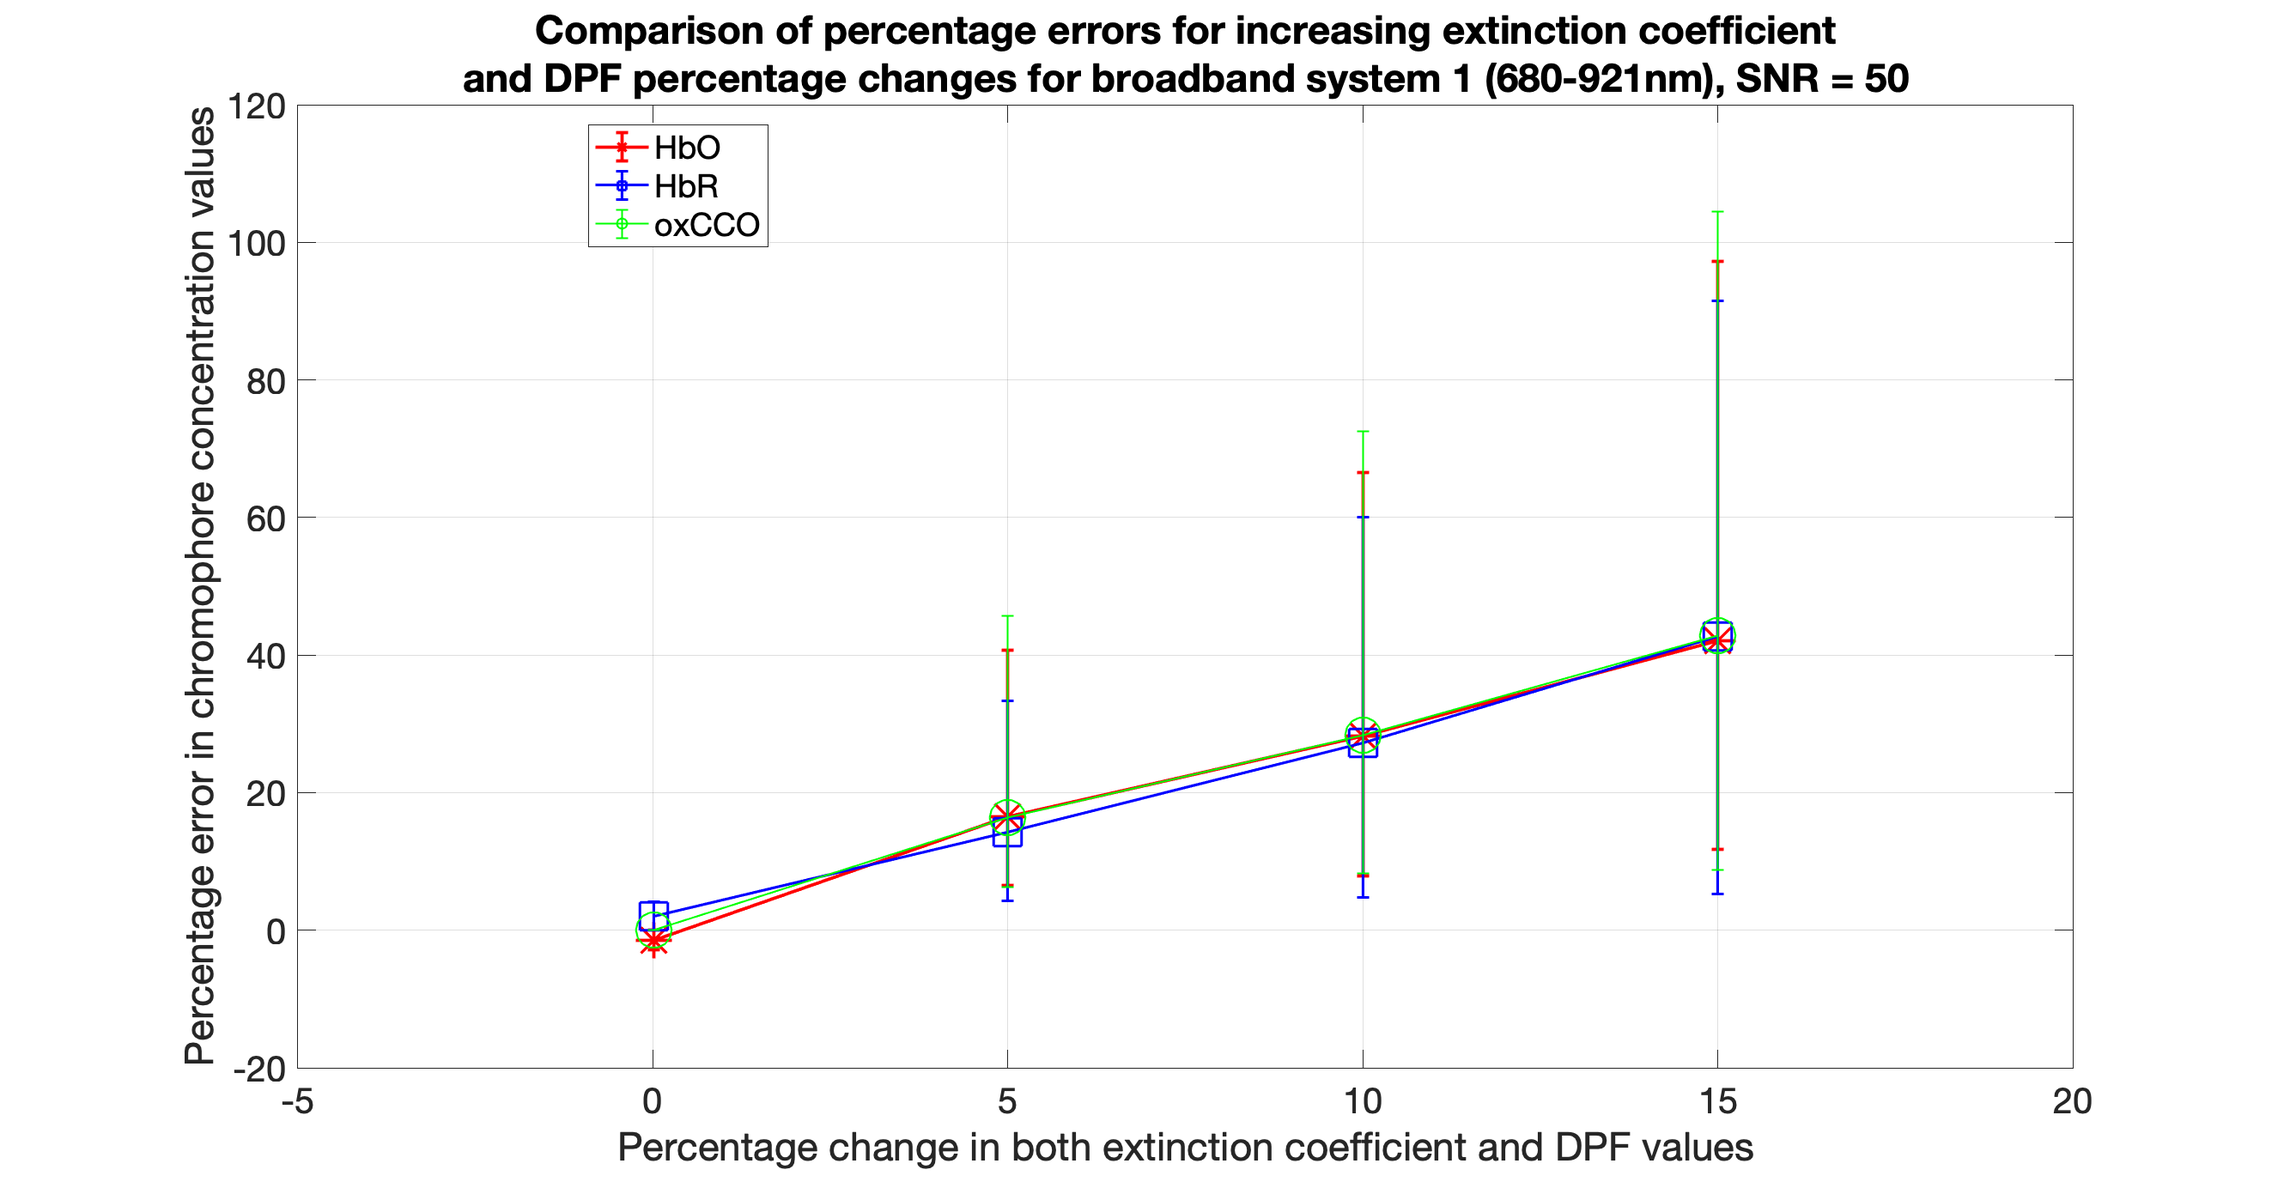
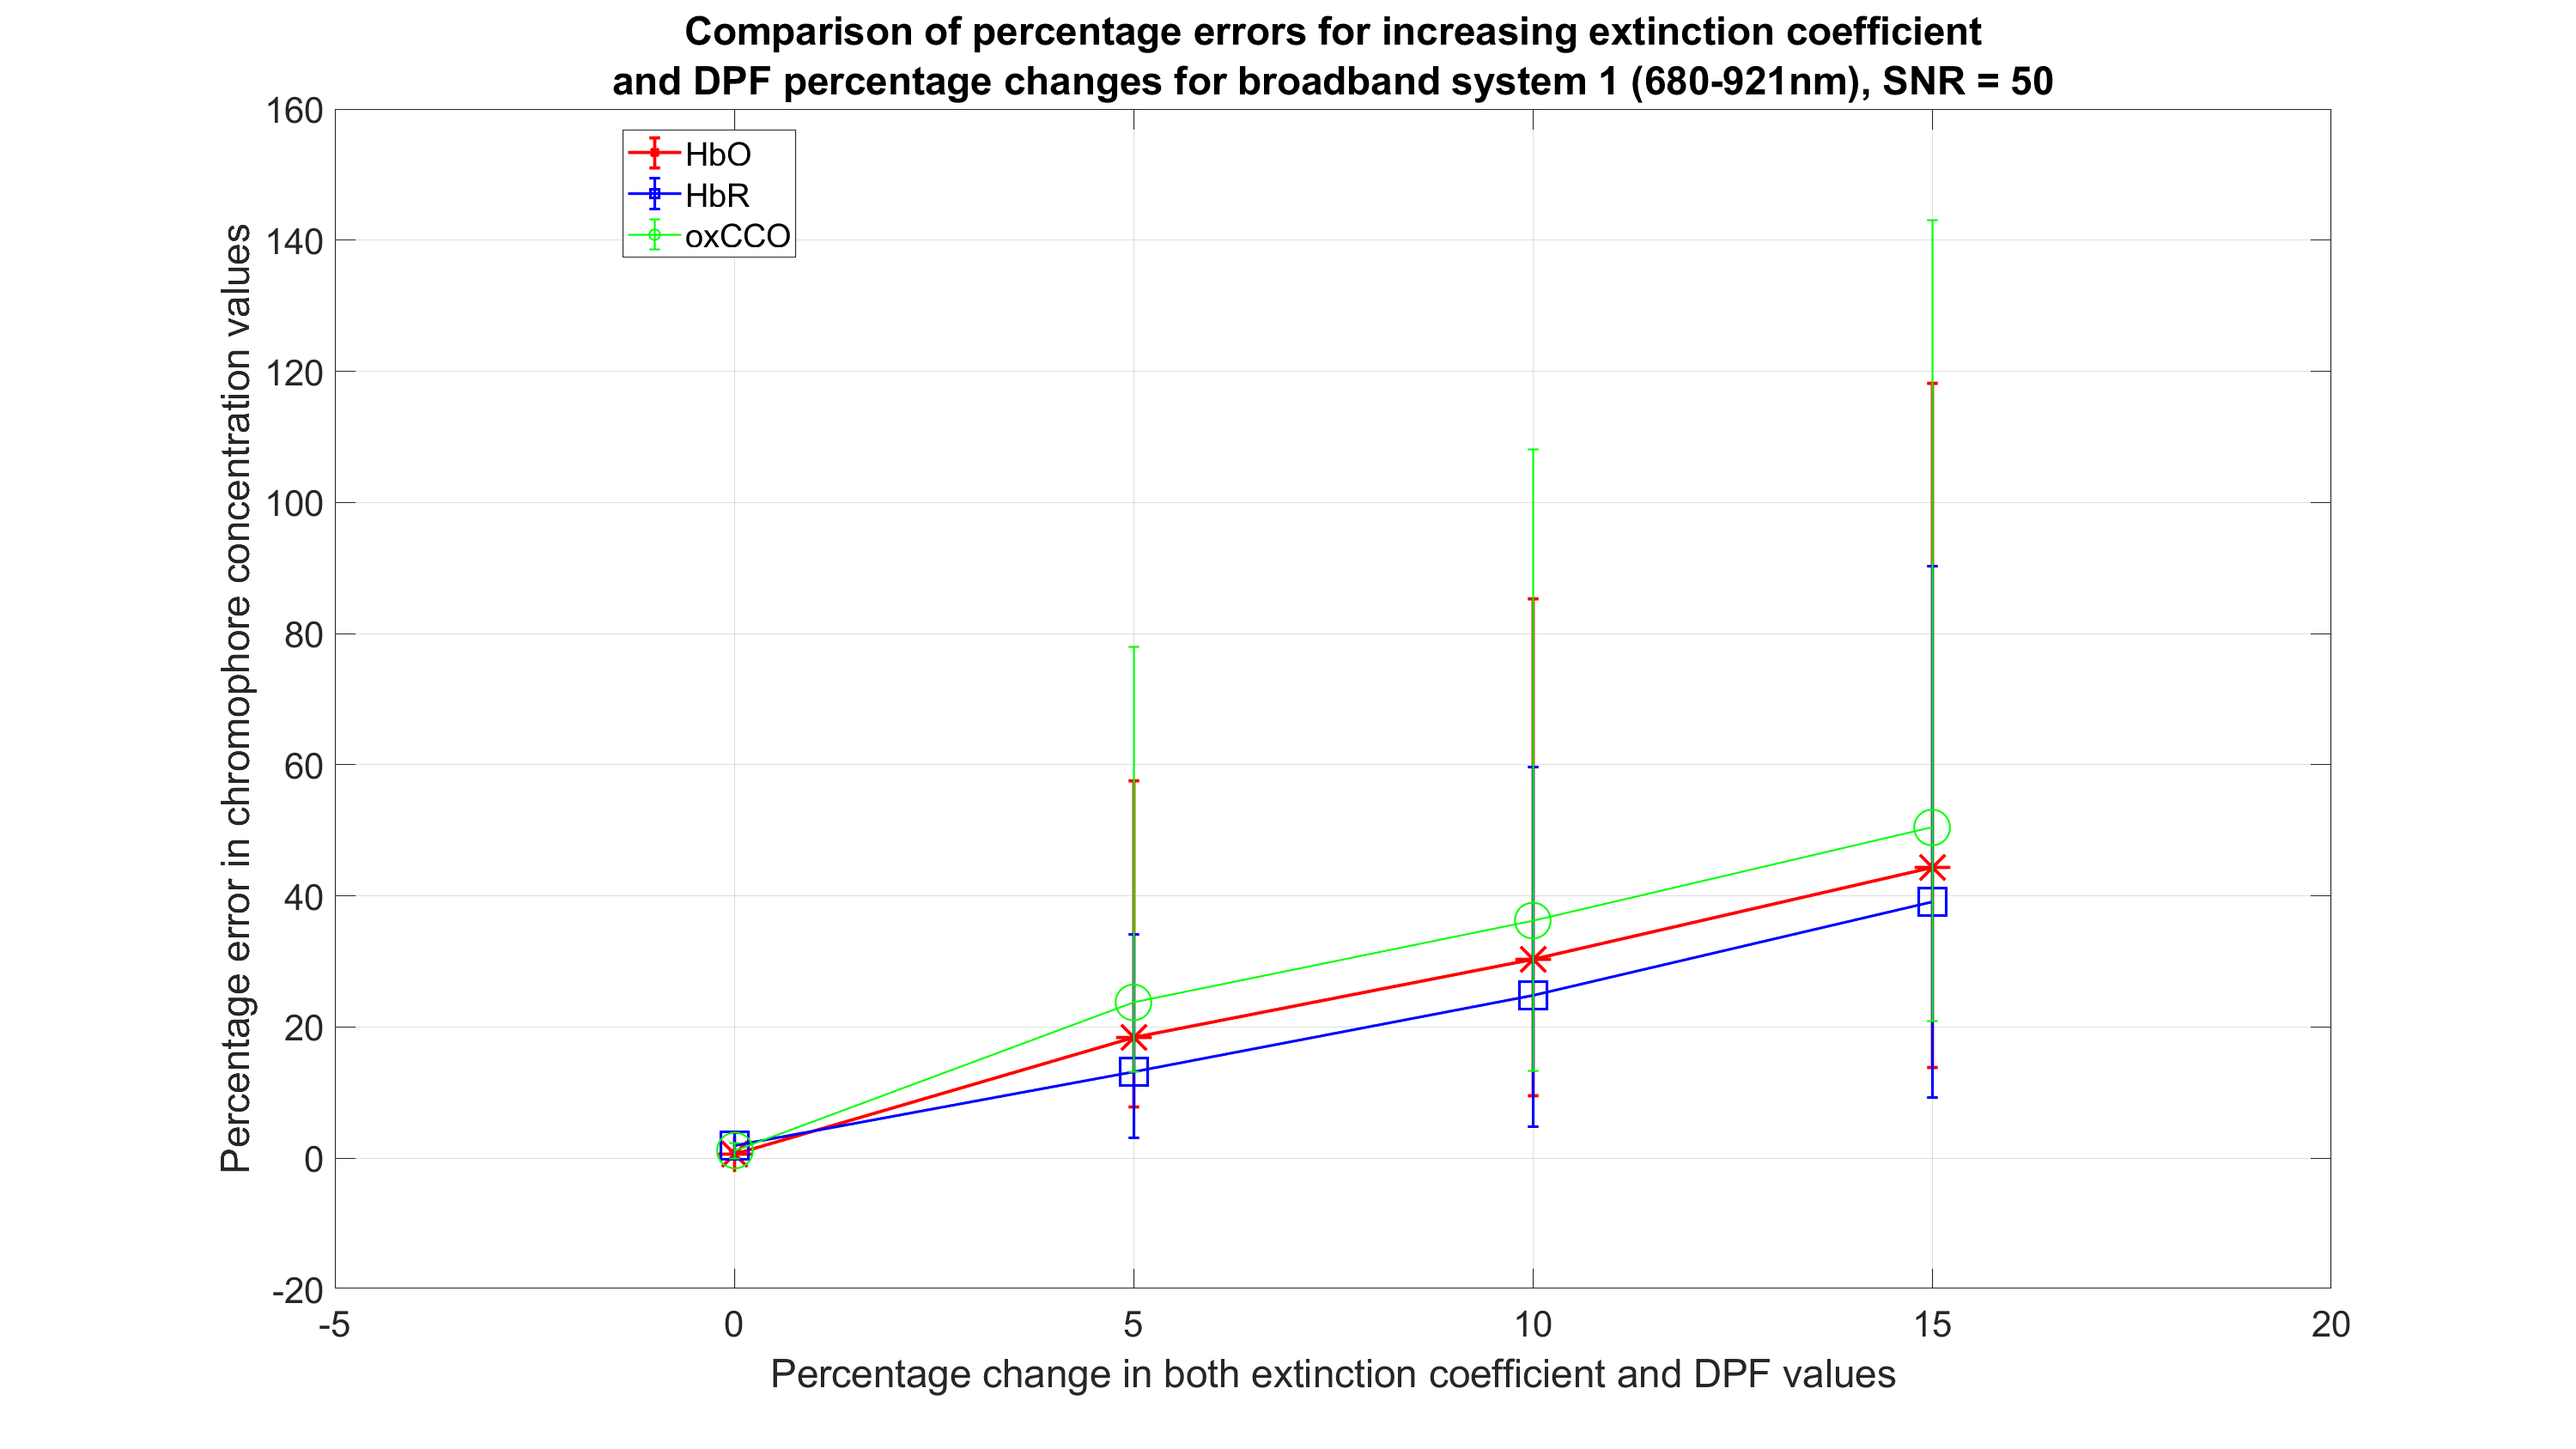
Cleaning up

diff --git a/Code replica/Broadband_investigations.m b/Code replica/Broadband_investigations.m
@@ -8,7 +8,7 @@
 % Enter simulation data
 SD = 30; % Source-detector separation on same surface of slab (mm)
 slab = 50; % Slab thickness (mm)
-for pert_number = 1:20
+for pert_number = 1:100
     %% Code for Broadband System 1
     % x contains all broadband wavelengths
     x = 680:921;
@@ -3205,10 +3205,107 @@ for pert_number = 1:20
 end
 
 %% Editing this
+
+% Average BB1
 for u = 1:4
     for j = 1:3
         for k = 1:pert_number
-            total_pert_error_BB4SNR50(k,j) = perc_accum_errors_DPFE_BB4SNR50_saved{1,k}(u,j);
+            total_pert_error_BBSNR50(k,j) = pert_ave_error_BBSNR50{1,k}(u,j);
+            high_bar_vector_error_BB4SNR50(k,j) = pert_high_bar_error_BB4SNR50{1,k}(u,j);
+            low_bar_vector_error_BB4SNR50(k,j) = pert_low_bar_error_BB4SNR50{1,k}(u,j);
+        end
+        ave_pert_error_BBSNR50(u,j) = mean(total_pert_error_BBSNR50(:,j(total_pert_error_BBSNR50(:,j)<Inf)));
+        high_bar_pert_error_BBSNR50(u,j) = max(high_bar_vector_error_BB4SNR50(:,j));
+        low_bar_pert_error_BBSNR50(u,j) = min(low_bar_vector_error_BB4SNR50(:,j));
+    end
+end
+
+% Graph for BB1
+FigH = figure('Position', get(0, 'Screensize'));
+F = getframe(FigH);
+imwrite(F.cdata, 'Average percentage errors for increasing E and DPF changes for BB1 SNR 50 random conc.png', 'png')
+errorbar(percent_vector,ave_pert_error_BBSNR50(:,1),low_bar_pert_error_BBSNR50(:,1),high_bar_pert_error_BBSNR50(:,1),'r*-','MarkerSize',20,'LineWidth',1.8)
+hold on
+errorbar(percent_vector,ave_pert_error_BBSNR50(:,2),low_bar_pert_error_BBSNR50(:,2),high_bar_pert_error_BBSNR50(:,2),'bs-','MarkerSize',20,'LineWidth',1.5)
+errorbar(percent_vector,ave_pert_error_BBSNR50(:,3),low_bar_pert_error_BBSNR50(:,3),high_bar_pert_error_BBSNR50(:,3),'go-','MarkerSize',20,'LineWidth',1)
+grid on
+ax = gca;
+ax.FontSize = 20;
+xlim([-5 20]);
+legend('HbO','HbR','oxCCO','Location','Best');
+xlabel('Percentage change in both extinction coefficient and DPF values');
+ylabel('Average percentage error in chromophore concentration values');
+title({'Average percentage errors for increasing extinction coefficient', 'and DPF percentage changes for BB1 with random conc changes (720-900nm), SNR = 50'});
+saveas(gcf,'Average percentage errors for increasing E and DPF changes for BB1 SNR 50 random conc.png')
+
+
+% Average BB2
+for u = 1:4
+    for j = 1:3
+        for k = 1:pert_number
+            total_pert_error_BB2SNR50(k,j) = pert_ave_error_BB2SNR50{1,k}(u,j);
+        end
+        ave_pert_error_BB2SNR50(u,j) = mean(total_pert_error_BB2SNR50(:,j));
+        high_bar_pert_error_BB2SNR50(u,j) = max(total_pert_error_BB2SNR50(:,j));
+        low_bar_pert_error_BB2SNR50(u,j) = min(total_pert_error_BB2SNR50(:,j));
+    end
+end
+
+% Graph for BB2
+FigH = figure('Position', get(0, 'Screensize'));
+F = getframe(FigH);
+imwrite(F.cdata, 'Average percentage errors for increasing E and DPF changes for BB2 SNR 50 random conc.png', 'png')
+errorbar(percent_vector,ave_pert_error_BB2SNR50(:,1),low_bar_pert_error_BB2SNR50(:,1),high_bar_pert_error_BB2SNR50(:,1),'r*-','MarkerSize',20,'LineWidth',1.8)
+hold on
+errorbar(percent_vector,ave_pert_error_BB2SNR50(:,2),low_bar_pert_error_BB2SNR50(:,2),high_bar_pert_error_BB2SNR50(:,2),'bs-','MarkerSize',20,'LineWidth',1.5)
+errorbar(percent_vector,ave_pert_error_BB2SNR50(:,3),low_bar_pert_error_BB2SNR50(:,3),high_bar_pert_error_BB2SNR50(:,3),'go-','MarkerSize',20,'LineWidth',1)
+grid on
+ax = gca;
+ax.FontSize = 20;
+xlim([-5 20]);
+legend('HbO','HbR','oxCCO','Location','Best');
+xlabel('Percentage change in both extinction coefficient and DPF values');
+ylabel('Average percentage error in chromophore concentration values');
+title({'Average percentage errors for increasing extinction coefficient', 'and DPF percentage changes for BB2 with random conc changes (720-900nm), SNR = 50'});
+saveas(gcf,'Average percentage errors for increasing E and DPF changes for BB2 SNR 50 random conc.png')
+
+
+% Average BB3
+for u = 1:4
+    for j = 1:3
+        for k = 1:pert_number
+            total_pert_error_BB3SNR50(k,j) = pert_ave_error_BB3SNR50{1,k}(u,j);
+        end
+        ave_pert_error_BB3SNR50(u,j) = mean(total_pert_error_BB3SNR50(:,j));
+        high_bar_pert_error_BB3SNR50(u,j) = max(total_pert_error_BB3SNR50(:,j));
+        low_bar_pert_error_BB3SNR50(u,j) = min(total_pert_error_BB3SNR50(:,j));
+    end
+end
+
+% Graph for BB3
+FigH = figure('Position', get(0, 'Screensize'));
+F = getframe(FigH);
+imwrite(F.cdata, 'Average percentage errors for increasing E and DPF changes for BB3 SNR 50 random conc.png', 'png')
+errorbar(percent_vector,ave_pert_error_BB3SNR50(:,1),low_bar_pert_error_BB3SNR50(:,1),high_bar_pert_error_BB3SNR50(:,1),'r*-','MarkerSize',20,'LineWidth',1.8)
+hold on
+errorbar(percent_vector,ave_pert_error_BB3SNR50(:,2),low_bar_pert_error_BB3SNR50(:,2),high_bar_pert_error_BB3SNR50(:,2),'bs-','MarkerSize',20,'LineWidth',1.5)
+errorbar(percent_vector,ave_pert_error_BB3SNR50(:,3),low_bar_pert_error_BB3SNR50(:,3),high_bar_pert_error_BB3SNR50(:,3),'go-','MarkerSize',20,'LineWidth',1)
+grid on
+ax = gca;
+ax.FontSize = 20;
+xlim([-5 20]);
+legend('HbO','HbR','oxCCO','Location','Best');
+xlabel('Percentage change in both extinction coefficient and DPF values');
+ylabel('Average percentage error in chromophore concentration values');
+title({'Average percentage errors for increasing extinction coefficient', 'and DPF percentage changes for BB3 with random conc changes (720-900nm), SNR = 50'});
+saveas(gcf,'Average percentage errors for increasing E and DPF changes for BB3 SNR 50 random conc.png')
+
+
+% Average BB4
+for u = 1:4
+    for j = 1:3
+        for k = 1:pert_number
+            total_pert_error_BB4SNR50(k,j) = pert_ave_error_BB4SNR50{1,k}(u,j);
         end
         ave_pert_error_BB4SNR50(u,j) = mean(total_pert_error_BB4SNR50(:,j));
         high_bar_pert_error_BB4SNR50(u,j) = max(total_pert_error_BB4SNR50(:,j));
@@ -3216,21 +3313,21 @@ for u = 1:4
     end
 end
 
-% NEED TO EDIT THIS - NOT CORRECT
+% Graph for BB4
 FigH = figure('Position', get(0, 'Screensize'));
 F = getframe(FigH);
-imwrite(F.cdata, 'Comparison of percentage errors for increasing E and DPF changes for BB system 4 SNR 50.png', 'png')
-errorbar(percent_vector,pert_ave_error_BB4SNR50(:,1),low_bar_vector_error_BB4SNR50(:,1),high_bar_vector_error_BB4SNR50(:,1),'r*-','MarkerSize',20,'LineWidth',1.8)
+imwrite(F.cdata, 'Average percentage errors for increasing E and DPF changes for BB4 SNR 50 random conc.png', 'png')
+errorbar(percent_vector,ave_pert_error_BB4SNR50(:,1),low_bar_pert_error_BB4SNR50(:,1),high_bar_pert_error_BB4SNR50(:,1),'r*-','MarkerSize',20,'LineWidth',1.8)
 hold on
-errorbar(percent_vector,pert_ave_error_BB4SNR50(:,2),low_bar_vector_error_BB4SNR50(:,2),high_bar_vector_error_BB4SNR50(:,2),'bs-','MarkerSize',20,'LineWidth',1.5)
-errorbar(percent_vector,pert_ave_error_BB4SNR50(:,3),low_bar_vector_error_BB4SNR50(:,3),high_bar_vector_error_BB4SNR50(:,3),'go-','MarkerSize',20,'LineWidth',1)
+errorbar(percent_vector,ave_pert_error_BB4SNR50(:,2),low_bar_pert_error_BB4SNR50(:,2),high_bar_pert_error_BB4SNR50(:,2),'bs-','MarkerSize',20,'LineWidth',1.5)
+errorbar(percent_vector,ave_pert_error_BB4SNR50(:,3),low_bar_pert_error_BB4SNR50(:,3),high_bar_pert_error_BB4SNR50(:,3),'go-','MarkerSize',20,'LineWidth',1)
 grid on
 ax = gca;
 ax.FontSize = 20;
 xlim([-5 20]);
 legend('HbO','HbR','oxCCO','Location','Best');
 xlabel('Percentage change in both extinction coefficient and DPF values');
-ylabel('Percentage error in chromophore concentration values');
-title({'Comparison of percentage errors for increasing extinction coefficient', 'and DPF percentage changes for broadband system 4 (720-900nm), SNR = 50'});
-saveas(gcf,'Comparison of percentage errors for increasing E and DPF changes for BB system 4 SNR 50.png')
+ylabel('Average percentage error in chromophore concentration values');
+title({'Average percentage errors for increasing extinction coefficient', 'and DPF percentage changes for BB4 with random conc changes (720-900nm), SNR = 50'});
+saveas(gcf,'Average percentage errors for increasing E and DPF changes for BB4 SNR 50 random conc.png')
 
